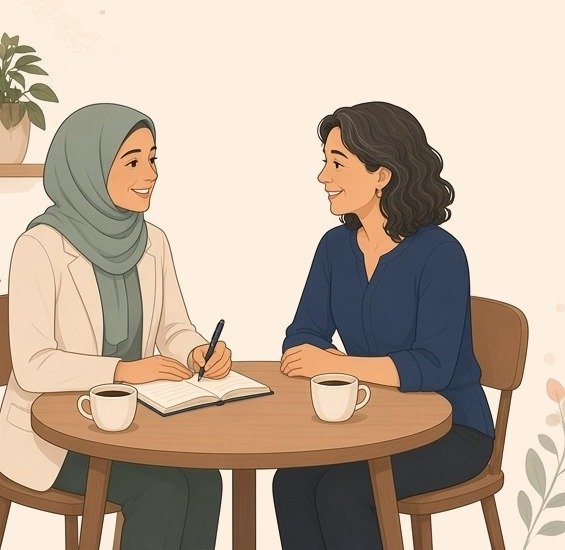
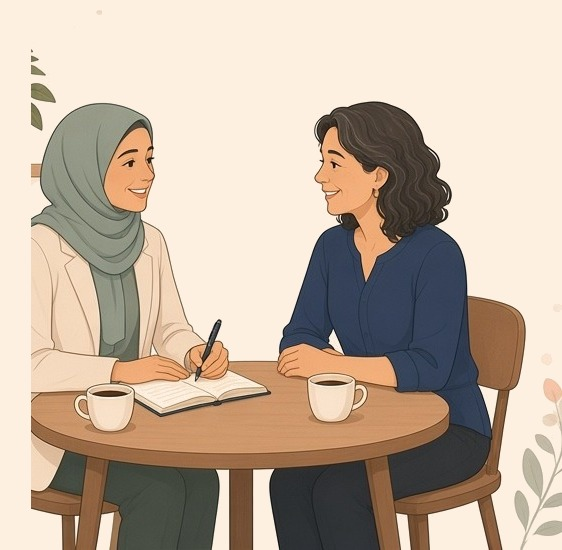
r12: hero overflow visible, tighter gesprek-hero-mob crop.

diff --git a/Jobsy.Web/wwwroot/css/features/na-de-match.css b/Jobsy.Web/wwwroot/css/features/na-de-match.css
@@ -66,9 +66,9 @@
 .ndm .band.ndm-hero--no-art{min-height:0!important;height:auto!important;max-height:none!important;background:var(--cream);border:1px solid #f0e2cf;border-radius:var(--rL);margin-bottom:14px;overflow:visible}
 .ndm .band.ndm-hero--gesprek .ndm-hero__art{background-image:url(/img/spots/gesprek.jpg);background-repeat:no-repeat;background-position:right bottom;background-size:contain;-webkit-mask-image:none;mask-image:none;width:min(420px,46%);max-width:46%}
 @media(max-width:600px){
-.ndm .band.ndm-hero--gesprek{display:flex!important;flex-direction:row;align-items:stretch;justify-content:space-between;position:relative;overflow:hidden;min-height:15rem;height:auto;max-height:none;margin-bottom:14px;border-radius:var(--rL);background-color:var(--cream);background-image:none}
+.ndm .band.ndm-hero--gesprek{display:flex!important;flex-direction:row;align-items:flex-end;justify-content:space-between;position:relative;overflow:visible;min-height:15rem;height:auto;max-height:none;margin-bottom:14px;border-radius:var(--rL);background-color:var(--cream);background-image:none}
 .ndm .band.ndm-hero--gesprek::after{display:none!important}
-.ndm .band.ndm-hero--gesprek .ndm-hero__art{display:block!important;position:relative;flex:1 1 52%;min-width:0;max-width:52%;width:auto!important;min-height:11rem;align-self:flex-end;margin:0;background-image:url(/img/spots/gesprek-hero-mob.jpg);background-repeat:no-repeat;background-position:right bottom;background-size:contain;-webkit-mask-image:none;mask-image:none}
+.ndm .band.ndm-hero--gesprek .ndm-hero__art{display:block!important;position:relative;flex:1 1 52%;min-width:0;max-width:52%;width:auto!important;min-height:10.5rem;align-self:stretch;margin:0;background-color:var(--cream);background-image:url(/img/spots/gesprek-hero-mob.jpg);background-repeat:no-repeat;background-position:right bottom;background-size:94% auto;-webkit-mask-image:none;mask-image:none}
 .ndm .band.ndm-hero--gesprek .bt{flex:0 0 48%;max-width:48%;padding:18px 10px 18px 18px;position:relative;z-index:1;background:var(--cream);align-self:center;box-sizing:border-box}
 .ndm .band.ndm-hero--gesprek .eyb{line-height:1.35;padding-top:2px}
 .ndm .band.ndm-hero--gesprek .ndm-hero-lead--compact{display:none}

diff --git a/Jobsy.Web/Hosting/PageAssetCatalog.cs b/Jobsy.Web/Hosting/PageAssetCatalog.cs
@@ -73,7 +73,7 @@ public static class PageAssetCatalog
         "css/features/future-jobs.css?v=20261006-02",
         "css/features/proactive-matching.css?v=20261012-03",
         "css/features/candidate-hub.css?v=20261012-01",
-        "css/features/na-de-match.css?v=20261019-10",
+        "css/features/na-de-match.css?v=20261019-11",
     ];
 
     public static readonly string[] WerkgeverCss =
@@ -84,7 +84,7 @@ public static class PageAssetCatalog
         "css/features/vacancy-wizard.css?v=20261017-02",
         "css/features/werkgever-aanmelding.css?v=20261016-06",
         "css/features/enterprise-ui.css?v=20261004-10",
-        "css/features/na-de-match.css?v=20261019-10",
+        "css/features/na-de-match.css?v=20261019-11",
     ];
 
     public static readonly string[] KandidatenkaartCss =

diff --git a/Jobsy.Tests/PageAssetCatalogTests.cs b/Jobsy.Tests/PageAssetCatalogTests.cs
@@ -29,7 +29,7 @@ public class PageAssetCatalogTests
         var areas = Jobsy.Web.Hosting.PageAssetCatalog.ResolveAreas(path);
         var sheets = Jobsy.Web.Hosting.PageAssetCatalog.StylesheetsFor(areas);
         Assert.True(sheets.Count >= expectedMinLinks, $"Expected at least {expectedMinLinks} sheets for {path}, got {sheets.Count}");
-        var maxSheets = path is "/candidate/paspoort" ? 38 : 32;
+        var maxSheets = path is "/candidate/paspoort" ? 40 : 32;
         Assert.True(sheets.Count <= maxSheets, $"Too many stylesheets ({sheets.Count}) for {path}");
         Assert.Equal(1, sheets.Count(s => s.StartsWith("css/app.min.css", StringComparison.Ordinal)));
         Assert.DoesNotContain("css/features/admin.css", sheets, StringComparer.Ordinal);
